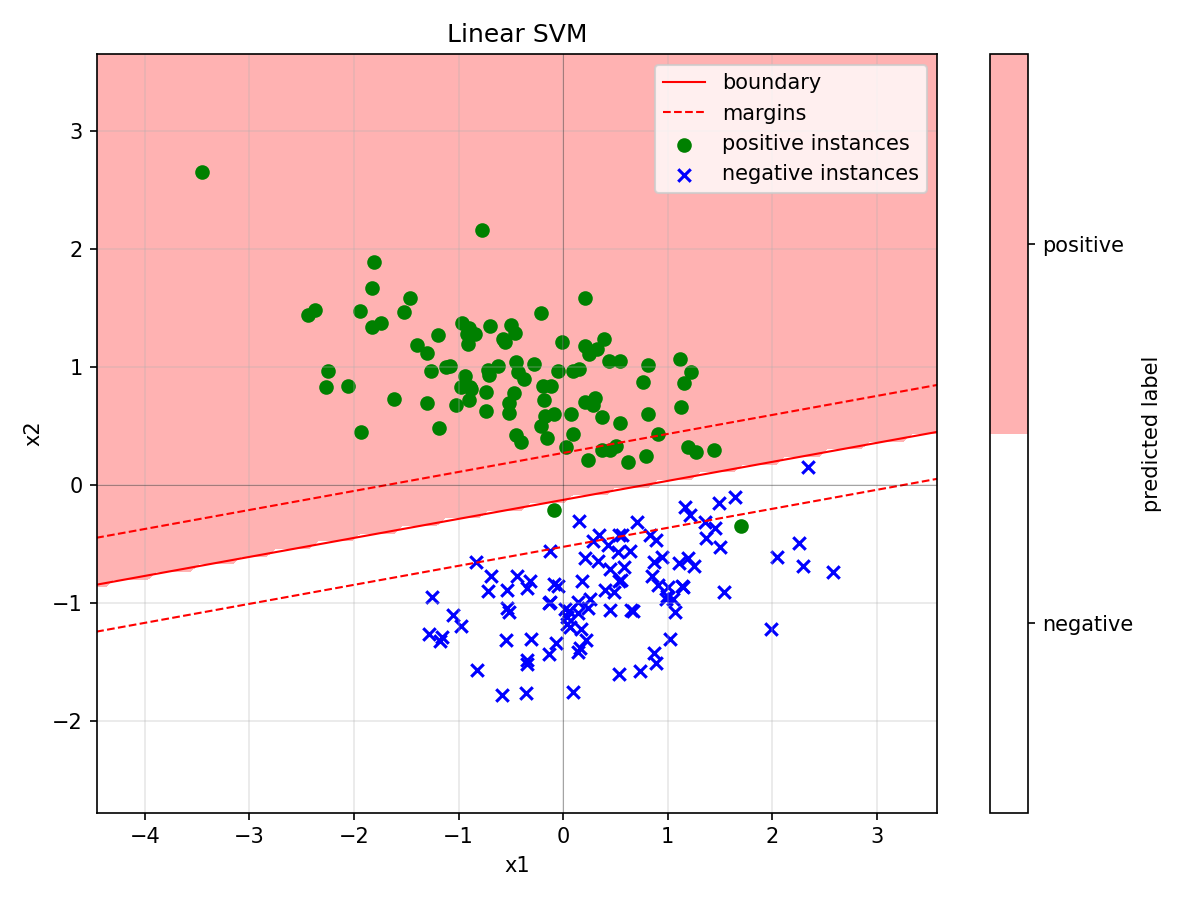
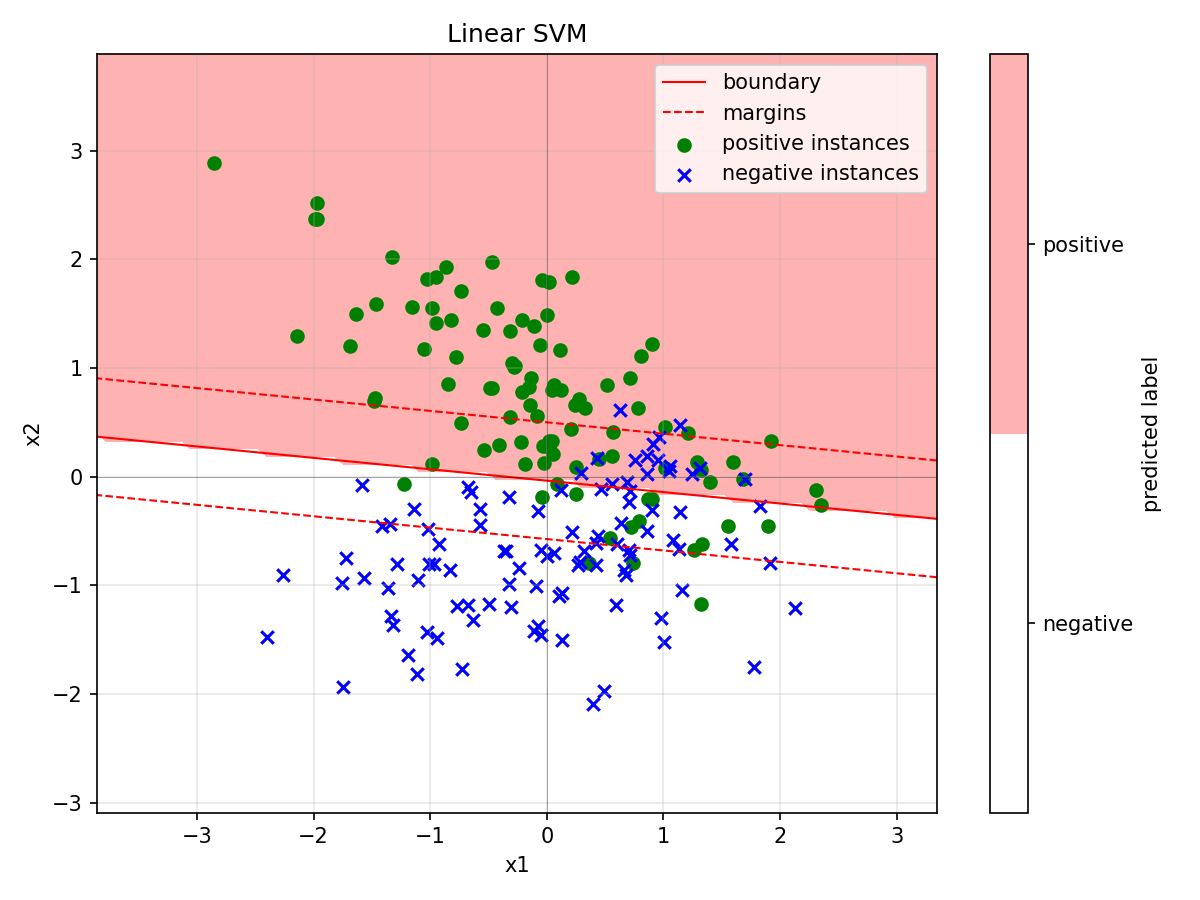
Version 0.3 commited on Nov 15 2026

diff --git a/Code/Supervised_Learning/plot_functions.py b/Code/Supervised_Learning/plot_functions.py
@@ -657,7 +657,7 @@ def visualize_gradient_boosting_binary(instances, labels, model):
 ##############################################################################
 
 
-def visualize_ffn_binary(instances, labels, model):
+def visualize_feedforward_network_binary(instances, labels, model):
     """
     Visualize the Feedforward Network for binary classification in 2D space.
 
@@ -671,7 +671,7 @@ def visualize_ffn_binary(instances, labels, model):
         labels,
         lambda grid: model.forward(grid).ravel(),
         title="Feedforward Network for Binary Classification",
-        file_name="ffn_binary_model",
+        file_name="feedforward_network_binary_model",
         prediction_type="probability",
     )
 
@@ -813,7 +813,7 @@ def visualize_gradient_boosting_multiclass(instances, labels, model):
 ##############################################################################
 
 
-def visualize_ffn_multiclass(instances, labels, model):
+def visualize_feedforward_network_multiclass(instances, labels, model):
     """
     Visualize the Feedforward Network for multiclass classification in 2D space.
 
@@ -828,7 +828,7 @@ def visualize_ffn_multiclass(instances, labels, model):
         lambda grid: model.predict(grid)[1].ravel(),
         num_classes=model.output_size,
         title="Feedforward Network for Multiclass Classification",
-        file_name="ffn_multiclass_model",
+        file_name="feedforward_network_multiclass_model",
     )
 
 

diff --git a/Code/Supervised_Learning/linear_svm.py b/Code/Supervised_Learning/linear_svm.py
@@ -116,7 +116,7 @@ class LinearSVM:
         margins = labels * self.forward(instances)
 
         # Average hinge loss plus L2 regularization (bias is not regularized)
-        loss = np.mean(uf.hinge(margins)) + 0.5 * self.regularization * (
+        loss = np.mean(uf.hinge_loss(margins)) + 0.5 * self.regularization * (
             self.weights @ self.weights
         )
         return loss

diff --git a/Code/Data/data_creators.py b/Code/Data/data_creators.py
@@ -81,7 +81,7 @@ def create_gaussians_binary_data(seed):
     """
     rng = np.random.RandomState(seed)
 
-    means = [[2, 5], [3, -2]]  # positive, negative
+    means = [[2, 2], [2, -1]]  # positive, negative
     covs = [[[1, -1], [-1, 3]], [[1, 0.5], [0.5, 2]]]
 
     instances = _generate_gaussian_points(means, covs, [110, 110], rng)

diff --git a/Code/Supervised_Learning/utility_functions.py b/Code/Supervised_Learning/utility_functions.py
@@ -147,7 +147,7 @@ def softmax(z):
 ##############################################################################
 
 
-def hinge(z):
+def hinge_loss(z):
     """
     Compute the hinge function.
 

diff --git a/Code/Supervised_Learning/README.md b/Code/Supervised_Learning/README.md
@@ -33,15 +33,15 @@ Each algorithm is implemented from scratch with NumPy and SciPy (the feedforward
 - `binomial_logistic_regression.py` - Binomial logistic regression minimizing the logistic loss, trained by gradient descent with explicit forward and backward passes or by BFGS with analytical gradients.
 - `multinomial_logistic_regression.py` - Multinomial logistic regression with a softmax output, minimizing the cross-entropy loss by gradient descent or BFGS.
 
-### Support Vector Machines
+### Support Vector Machines (SVM)
 
 - `linear_svm.py` - Linear SVM trained by stochastic gradient descent on the L2-regularized hinge loss, visualized with its decision boundary and margins.
 - `kernel_svm.py` - Kernel SVM solving the dual quadratic program with SLSQP, supporting linear, RBF and polynomial kernels, and identifying the support vectors.
 
 ### Feedforward Networks (FFN)
 
-- `ffn_binary.py` - Feedforward network for binary classification with one hidden layer of sigmoid units and a sigmoid output, minimizing the logistic loss. Weights are initialized with Xavier's method. Training uses backpropagation (explicit forward and backward passes) with full-batch gradient descent or mini-batch stochastic gradient descent, and predicts the positive class when `p >= 0.5`.
-- `ffn_multiclass.py` - Feedforward network for multiclass classification with two hidden layers of ReLU units and a softmax output, minimizing the cross-entropy loss. Hidden layers are initialized with He's method and the output layer with Xavier's method. Training uses backpropagation with full-batch gradient descent or mini-batch stochastic gradient descent, and predicts the class with the highest probability.
+- `feedforward_network_binary.py` - Feedforward network for binary classification with one hidden layer of sigmoid units and a sigmoid output, minimizing the logistic loss. Weights are initialized with Xavier's method. Training uses backpropagation (explicit forward and backward passes) with full-batch gradient descent or mini-batch stochastic gradient descent, and predicts the positive class when `p >= 0.5`.
+- `feedforward_network_multiclass.py` - Feedforward network for multiclass classification with two hidden layers of ReLU units and a softmax output, minimizing the cross-entropy loss. Hidden layers are initialized with He's method and the output layer with Xavier's method. Training uses backpropagation with full-batch gradient descent or mini-batch stochastic gradient descent, and predicts the class with the highest probability.
 
 Both networks update the parameters by hand-written backpropagation, with no automatic differentiation. Training runs for a fixed number of epochs. The loss on the full training set is logged after every epoch, and progress is printed every 1000 epochs. When `--batch-size` is smaller than the number of training instances, the data is reshuffled each epoch and processed in mini-batches. Otherwise full-batch gradient descent is used.
 
@@ -113,8 +113,8 @@ python binomial_logistic_regression.py
 python multinomial_logistic_regression.py
 python linear_svm.py
 python kernel_svm.py
-python ffn_binary.py
-python ffn_multiclass.py
+python feedforward_network_binary.py
+python feedforward_network_multiclass.py
 python adaboost.py
 python gradient_boosting_binary.py
 python gradient_boosting_multiclass.py
@@ -139,14 +139,14 @@ Default dataset of each script:
 
 | Task | Loader | Scripts | Default |
 | --- | --- | --- | --- |
-| Binary classification | `load_binary_classification_data` | `adaboost.py`, `gradient_boosting_binary.py`, `kernel_svm.py`, `ffn_binary.py` | `jigsaw` |
+| Binary classification | `load_binary_classification_data` | `adaboost.py`, `gradient_boosting_binary.py`, `kernel_svm.py`, `feedforward_network_binary.py` | `jigsaw` |
 | Binary classification | `load_binary_classification_data` | all other binary classifiers | `gaussians` |
-| Multiclass classification | `load_multiclass_classification_data` | the multiclass scripts (including `ffn_multiclass.py`) | `blobs` |
+| Multiclass classification | `load_multiclass_classification_data` | the multiclass scripts (including `feedforward_network_multiclass.py`) | `blobs` |
 | Regression | `load_regression_data` | the regression scripts | `plane` |
 
 `jigsaw` is not linearly separable, which is why the scripts of kernel methods, ensemble methods and neural networks default to it.
 
-`ffn_binary.py` accepts `gaussians`, `jigsaw`, `circle` and `moons`. `ffn_multiclass.py` accepts `classification` (20D), `blobs` (2D) and `iris` (4D).
+`feedforward_network_binary.py` accepts `gaussians`, `jigsaw`, `circle` and `moons`. `feedforward_network_multiclass.py` accepts `classification` (20D), `blobs` (2D) and `iris` (4D).
 
 Label conventions differ by algorithm: `perceptron.py`, `linear_svm.py`, `kernel_svm.py` and `adaboost.py` request signed labels in `{-1, 1}` (`signed_label=True` in `load_binary_classification_data`), while the remaining classifiers use `{0, 1}` or `{0, ..., k-1}`. This includes both feedforward networks, which use `{0, 1}` and `{0, ..., k-1}` respectively. The scripts set this flag themselves, so no manual conversion is needed.
 
@@ -182,8 +182,8 @@ Feedforward networks:
 
 | Option | Script | Default | Meaning |
 | --- | --- | --- | --- |
-| `--hidden-size` | `ffn_binary.py` | `4` | Number of units in the hidden layer |
-| `--hidden1-size`, `--hidden2-size` | `ffn_multiclass.py` | `6`, `6` | Number of units in the first and second hidden layers |
+| `--hidden-size` | `feedforward_network_binary.py` | `4` | Number of units in the hidden layer |
+| `--hidden1-size`, `--hidden2-size` | `feedforward_network_multiclass.py` | `6`, `6` | Number of units in the first and second hidden layers |
 | `--batch-size` | both FFNs | `None` | Mini-batch size for SGD; full-batch GD is used when omitted or when it is not smaller than the number of training instances |
 
 `--num-epochs` and `--learning-rate` are described in the table of iterative methods above.
@@ -205,8 +205,8 @@ python perceptron.py --data gaussians --num-epochs 20 --convergence-threshold 0.
 python k_nearest_neighbor.py --data moons --num-neighbors 5
 python binomial_logistic_regression.py --data circle --algorithm bfgs
 python kernel_svm.py --data jigsaw --kernel poly --degree 2 --C 10
-python ffn_binary.py --data moons --hidden-size 8 --learning-rate 0.5
-python ffn_multiclass.py --data iris --hidden1-size 8 --hidden2-size 8 --batch-size 16
+python feedforward_network_binary.py --data moons --hidden-size 8 --learning-rate 0.5
+python feedforward_network_multiclass.py --data iris --hidden1-size 8 --hidden2-size 8 --batch-size 16
 python adaboost.py --data moons --num-learners 200 --max-tree-depth 1
 python gradient_boosting_regressor.py --data plane --shrinkage 0.05 --num-learners 300
 ```
@@ -247,4 +247,4 @@ Each script prints its evaluation measure on both the training and the test set,
 - **Classification** - accuracy from `evaluate_accuracy`, the fraction of correctly predicted labels
 - **Regression** - mean squared error from `evaluate_mse`
 
-The scripts with stochastic training (`perceptron.py`, `linear_svm.py`, `adaboost.py`, `ffn_binary.py`, `ffn_multiclass.py`) fix `MODEL_SEED = 64`. The perceptron, linear SVM and AdaBoost set it after the data is loaded. The two FFNs set it at the start of `train()`, where it seeds both the weight initialization and the per-epoch shuffling of mini-batches. The train/test splits are fixed by `DATA_SEED = 32` inside the `Data` package, so repeated runs are reproducible. The remaining models are deterministic given the data.
+The scripts with stochastic training (`perceptron.py`, `linear_svm.py`, `adaboost.py`, `feedforward_network_binary.py`, `feedforward_network_multiclass.py`) fix `MODEL_SEED = 64`. The perceptron, linear SVM and AdaBoost set it after the data is loaded. The two FFNs set it at the start of `train()`, where it seeds both the weight initialization and the per-epoch shuffling of mini-batches. The train/test splits are fixed by `DATA_SEED = 32` inside the `Data` package, so repeated runs are reproducible. The remaining models are deterministic given the data.
